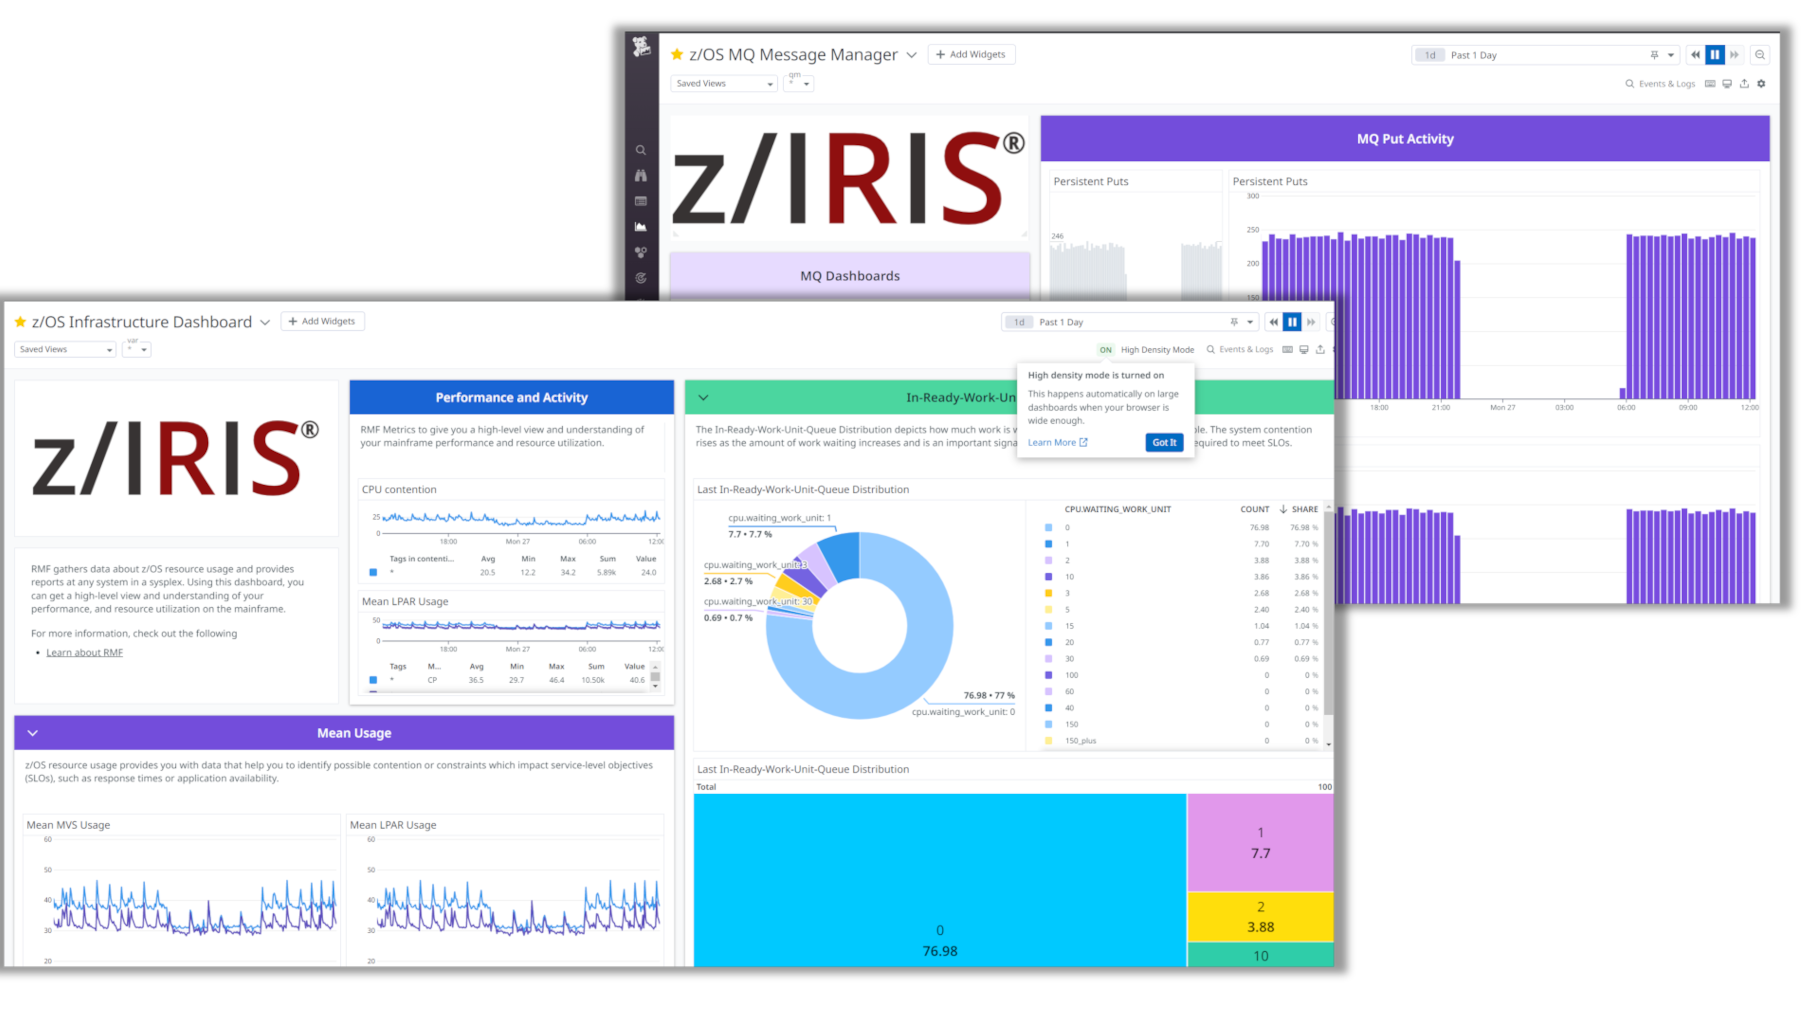
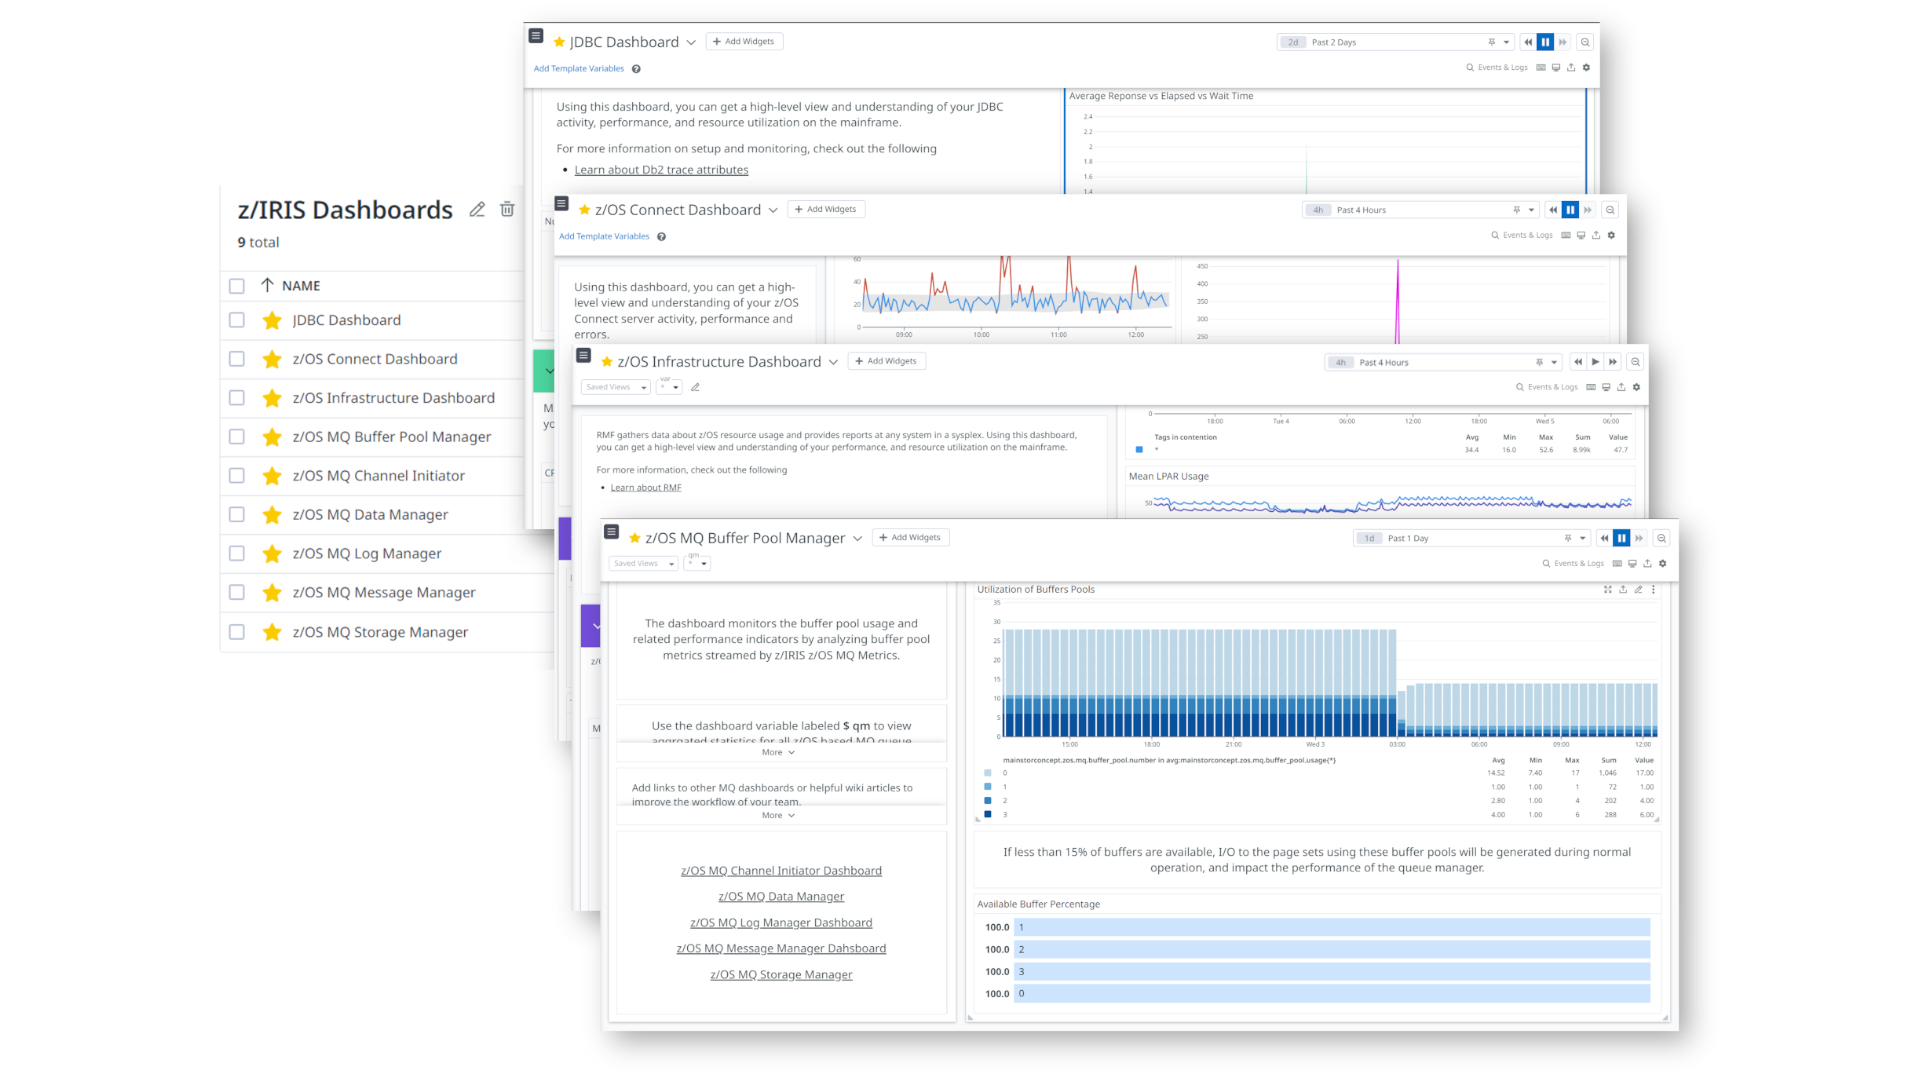
Ziris v130 update (#639)
* Update README.md

* Add new architecture graphic

* Add graphic of CICS service info created by z/IRIS

* Add graphics of extended flame graphs from z/IRIS

* Delete dataog_ziris_opentelemetry_trace.PNG

This graphic is replaced by the new architecture graphic

* Update CHANGELOG.md

Latest release information

* Update manifest too reflect changes in images

* delete image - aspect ratio

* delete image aspect ratio

* add new architecture image

* add new cics service page image

* Update README.md

corrrections

* Update manifest.json

remove separate dashboard images

* Replace old dashboards image

* remove seperate jdbc image

replaced by grouped datadog-ziris-dashboards.png

* remove seperate zosconnect dashboard

replaced by grouped mage datadog-ziris-dashboards.png

* Update mainstorconcept_ziris/README.md

* Update mainstorconcept_ziris/README.md

* Update mainstorconcept_ziris/README.md

* Update mainstorconcept_ziris/README.md

* Update mainstorconcept_ziris/README.md

* Update mainstorconcept_ziris/README.md

* Update mainstorconcept_ziris/README.md

* Update mainstorconcept_ziris/README.md

* Update mainstorconcept_ziris/README.md

* Update mainstorconcept_ziris/README.md

* Update mainstorconcept_ziris/README.md

* Update mainstorconcept_ziris/README.md

* Update mainstorconcept_ziris/README.md

* Update mainstorconcept_ziris/README.md

* Update mainstorconcept_ziris/README.md

---------

diff --git a/mainstorconcept_ziris/README.md b/mainstorconcept_ziris/README.md
@@ -2,16 +2,31 @@
 
 ## Overview
 
-[z/IRIS][1] is a plug-in software solution, built to provide mainframe-inclusive performance monitoring for the non-mainframe world. 
+Boost your enterprise observability practices with additional traces and metrics from your backend mainframe applications, and use the following benefits with [z/IRIS][1]:
 
-DevOps teams want to understand how mainframe performs for their business applications and how peak performance can be maintained or achieved. With z/IRIS, mainframe observability for DevOps is a core concept. Teams can assess the usage of mainframe resources, continuously analyze performance, and compare metrics and data across applications using Datadog.
+* Visualize relationships between services and applications hosted on cloud or servers, and mainframe.
+* Discover how mainframe applications contribute to the end user experience.
+* Reduce mean-time-to-restore (MTTR) by leveraging [Datadog Watchdog][23] to automatically detect anomalies in z/OS applications that impact digital business services.
+* Drastically improve communication between application teams and mainframe platform administrators by using shareable dashboards and interfaces to assist with cross-platform incident analysis.
 
-After activating z/IRIS, Datadog users can do the following:
 
-* Identify applications that depend on mainframe-hosted services and applications.
-* Monitor latencies in mainframe services down to a single request level.
-* Create monitors that react to anomalies and exceeded thresholds relevant to your organization’s SLIs.
-* Analyze mainframe application performance from end to end within the context of the business service.
+ z/IRIS sends telemetry (traces and metrics) from transactions and applications running on IBM System Z mainframes to Datadog. 
+ 
+ Once activated:
+ 
+ * The Datadog [Service Map][24] displays the integration with z/OS services such as CICS, MQ, and Db2.
+ * Call rate, error rate, and latency are performance indicators enabled for mainframe services.
+ * Flame graphs and span lists visualize the request's flow into mainframe applications.
+ * Trace pages contain error messages z/OS systems where relevant.
+
+
+z/IRIS telemetry improves developer and operations experience by extending their visibility into the mainframe's internal operations. Datadog users will be able to:
+
+* Activate z/IRIS dashboards to monitor z/OS systems and application health.
+* Create monitors to alert teams on SLO breaches in mainframe applications.
+* Analyze how mainframe applications contribute to total response time and overall availability.
+* Examine how changes inside and outside the mainframe change application behavior and stability.
+* Access error messages reported from mainframe applications that impact the end user experience.
 
 ### Pricing
 
@@ -36,8 +51,8 @@ The minimum starting price (Tier Level 1) is covered by the amount stipulated in
 
 z/IRIS integrates with Datadog in two ways:
 
-* **OpenTelemetry (OTEL):** This observability framework standardizes APM integrations and is fully supported by Datadog. You can easily configure z/IRIS to stream traces and metrics to an OpenTelemetry Collector that is configured to export Traces and Metrics to your Datadog environment.
-* **Datadog APIs (Beta):** Users can also elect to stream Traces and Events through the Datadog Agent API and the HTTP REST API, respectively. This integration method can help accelerate proofs of concepts if OpenTelemetry is not yet available in your organization.
+* **OpenTelemetry (OTEL):** This observability framework standardizes APM integrations and is fully supported by Datadog. z/IRIS will stream traces and metrics to an OpenTelemetry Collector that is configured to export telemetry to your Datadog environment.
+* **Datadog APIs (Beta):** z/IRIS is able to stream traces using the Datadog Agent API as well as events using Datadog's HTTP REST API. This integration is only available for trials and proof of concept (POC) projects to reduce administrative effort while evaluating z/IRIS and is not ideal for production use cases. 
 
 For more detailed information about the integration possibilities of z/IRIS, see the [z/IRIS documentation][3].
 
@@ -45,38 +60,36 @@ For more detailed information about the integration possibilities of z/IRIS, see
 
 A span represents a unit of work or process. Spans are the building blocks for distributed traces which depict when a request was triggered and how the requests flowed through applications and services.
 
-z/IRIS extends Datadog traces with spans that represent processes and units of work from IBM Z mainframe applications.
-
-Extending traces provides Datadog users with new insights into how applications hosted on Cloud and other on-premise platforms depend on applications hosted on z/OS. Furthermore, users gain standard key performance indicators, such as error rate, call rate, and request latency for mainframe-based applications.
+z/IRIS extends traces in Datadog with spans that represent processes and transactions from IBM Z mainframe applications. Extending traces provides users with new insights into how services on mainframe are consumed by cloud and server applications. Performance indicators, such as error rate, call rate, and request latency, for mainframe-based applications are enabled so you can identify the health of the mainframe integration.
 
 #### Spans
 
-z/IRIS creates spans for the following mainframe applications:
+z/IRIS creates spans for transactions and operations processed on the following mainframe systems:
 
 * [Db2 for z/OS][4]
 * [z/OS Connect][5]
-* [Batch Jobs steps and TSO User Session][6]
-* [MQ for z/OS][7]
-* [CICS Transaction][8]
+* [IBM MQ for z/OS][7]
+* [CICS Transaction Server (i.e. CICS TS)][8]
+* [Batch jobs][6]
+* [TSO user activity][6]
 
 This list is always growing. Contact [ziris@mainstorconcept.com][2] to request information about support for z/OS applications or subsystems not listed above.
 
 #### Workflow Tracing
 
-Once a span has been generated, z/IRIS checks if the span has a logical relationship to an upstream application trace. If so, the required correlation context is added to the span and Datadog will automatically append the span to the relevant trace. 
+z/IRIS is able to identify when operations on mainframe were triggered by an external application request and will ensure that the generated spans are added to the trace for the application request. For example, a cloud application sends a request to a mainframe application for processing, z/IRIS will detect that the mainframe application processing is related to an external request and will ensure that the span from the mainframe application is added to the trace for the cloud application request.
 
-The following request workflows trigger span correlation:
+The following request workflows are tracked by z/IRIS Workflow tracing:
 
-* REST API request processing z/OS Connect
-* z/OS Connect APIs processed by Db2 for z/OS System-of-Record
-* JDBC calls to Db2 for z/OS
-* JMS application messages to IBM MQ for z/OS (including channel-to-channel)
-* MQ for z/OS to CICS Transactions
-* Steps from a single batch job are correlated to form a trace
+* REST API request -> z/OS Connect EE -> SOR (CICS TS, Db2 for z/OS, IMS or IBM MQ) -> Db2 for z/OS 
+* JDBC -> Db2 for z/OS
+* IBM MQ (Linux, Windows, AIX) -> IBM MQ for z/OS -> CICS TS -> Db2 for z/OS 
+* CICS TS -> Db2 for z/OS
+
 
 #### Tags
 
-Additional metadata about request processing on z/OS is provided through tags that are useful to filter for specific traces in the [Datadog Trace Explorer][9] as well as additional insight for [Datadog Watchdog Insights][10]. 
+Metadata about the request, its resource utilization, and the relevant z/OS system are provided through tags that you can use to make queries in the [Trace Explorer][9], and this information is processed by [Watchdog Insights][10] to alert users to anomalies detected in mainframe services. 
 
 Below is a complete list of all tags created with z/IRIS.
 
@@ -354,16 +367,16 @@ Below is a complete list of all tags created with z/IRIS.
 
 ### Mainframe metrics
 
-* [RMF Metrics][11] 
-	* RMF metrics provide resource utilization metrics at customizable intervals and at customizable levels of detail.
+* [Infrastructure Metrics][11] 
+	* Monitors resource utilization in the z/OS system. Infrastructure metrics support CPU (such as general processors and zIIP engines) utilization and contention.
 
 * [z/OS Connect Metrics][12]
-	* z/IRIS streams metrics created using data from IBM's z/OS Connect SMF type 123 version 1 and 2 records. 
+	* Monitors the activity and performance of z/OS Connect servers including incoming requests, return codes, request methods, server latency, and service provider (such as SOR) latency. 
 
 * [MQ Metrics][13]
-	* MQ statistics records (SMF Type 115) contain a multitude of statistics from various resources within the system. z/IRIS introduces z/OS MQ Metrics, focusing on the most vital performance indicators for monitoring, analysis, and alerting purposes.
+	* Monitors the activity of MQ Queue Managers on z/OS and the health of their resources (such as storage, buffer pools, logs, and channels).
 
-This isn't the metric you're looking for? Missing a critical feature for your organization? Send us a feature request at [info@mainstorconcept.com][2].
+This isn't the metric you're looking for? Missing a critical feature for your organization? Send us a feature request at [ziris@mainstorconcept.com][2].
 
 ### Private enterprise offers
 
@@ -451,3 +464,5 @@ Additional helpful documentation, links, and articles:
 [20]: mailto:support@mainstorconcept.com
 [21]: https://service.mainstorconcept.com/mscportal/login
 [22]: https://www.datadoghq.com/blog/mainframe-monitoring-mainstorconcept-datadog-marketplace/
+[23]: https://docs.datadoghq.com/watchdog/
+[24]: https://docs.datadoghq.com/tracing/services/services_map/

diff --git a/mainstorconcept_ziris/CHANGELOG.md b/mainstorconcept_ziris/CHANGELOG.md
@@ -1,4 +1,23 @@
 # CHANGELOG
+## 1.13.0 / 2023-04-13
+
+This release extends [z/IRIS Mainframe Workflow Tracing](https://public.mainstorconcept.com/home/z-iris-mainframe-workflow-tracing), 
+which provides transaction tracking within z/OS, so that users gain more insights into back-end processing on mainframe.
+
+### z/OS Connect to CICS Tracing
+Before this update, users could only identify z/OS Connect APIs backed by CICS by analyzing data available in the System-of-Record (SOR) 
+child span for [z/OS Connect traces](https://public.mainstorconcept.com/home/z-os-connect-spans). However, with the latest release of z/IRIS, 
+a [CICS Transaction child span](https://public.mainstorconcept.com/home/cics-transaction-spans) is added to the REST API request trace. 
+This child span provides valuable transaction, program, performance, and resource-related data for the CICS call, resulting in faster 
+root-cause identification and improved analysis through supplemented CICS identification and performance metrics.
+See [z/OS Connect to CICS](https://public.mainstorconcept.com/home/z-os-connect-observability#z%2FOS-Connect-to-CICS) for more information 
+about z/OS Connect to CICS Transaction workflows.
+
+### CICS to Db2 Tracinge
+z/IRIS now adds a [Db2 child span](https://public.mainstorconcept.com/home/db2-accounting-spans) to a CICS Transaction trace whenever 
+CICS transactions execute Db2 calls. This new correlation context exposes the dependencies between CICS transactions and Db2 resources 
+on z/OS, enabling DevOps engineers to obtain a deeper understanding of the performance of mainframe applications in digital 
+business services. Rerer to [CICS to Db2](https://public.mainstorconcept.com/home/cics-transaction-observability#CICS-to-Db2) for more details
 
 ## 1.12.0 / 2023-02-27
 
